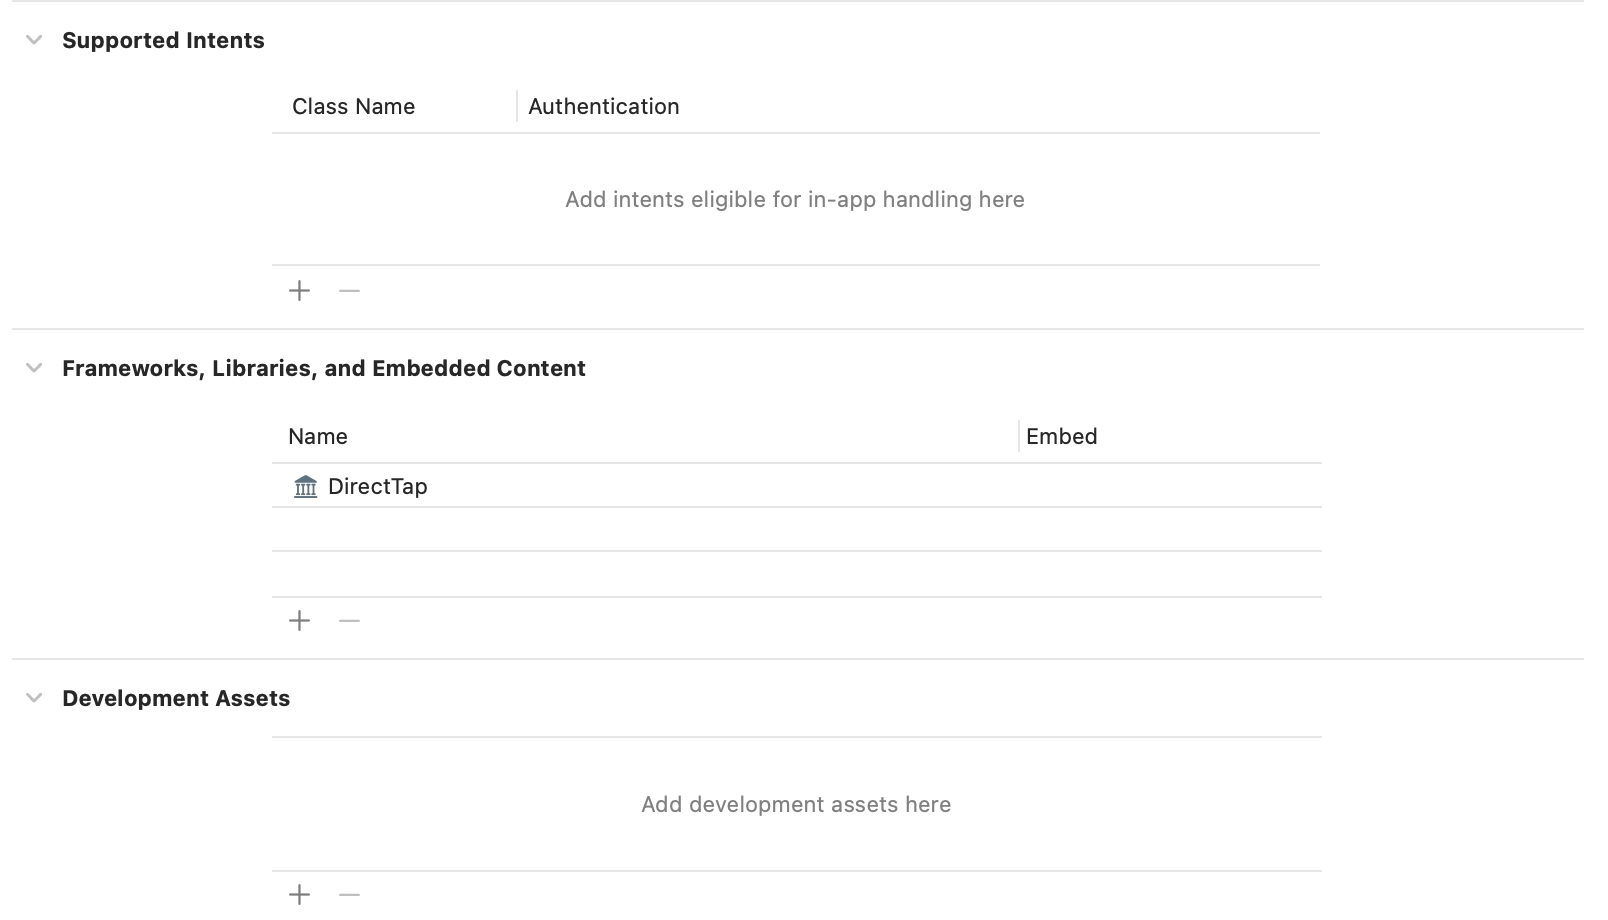
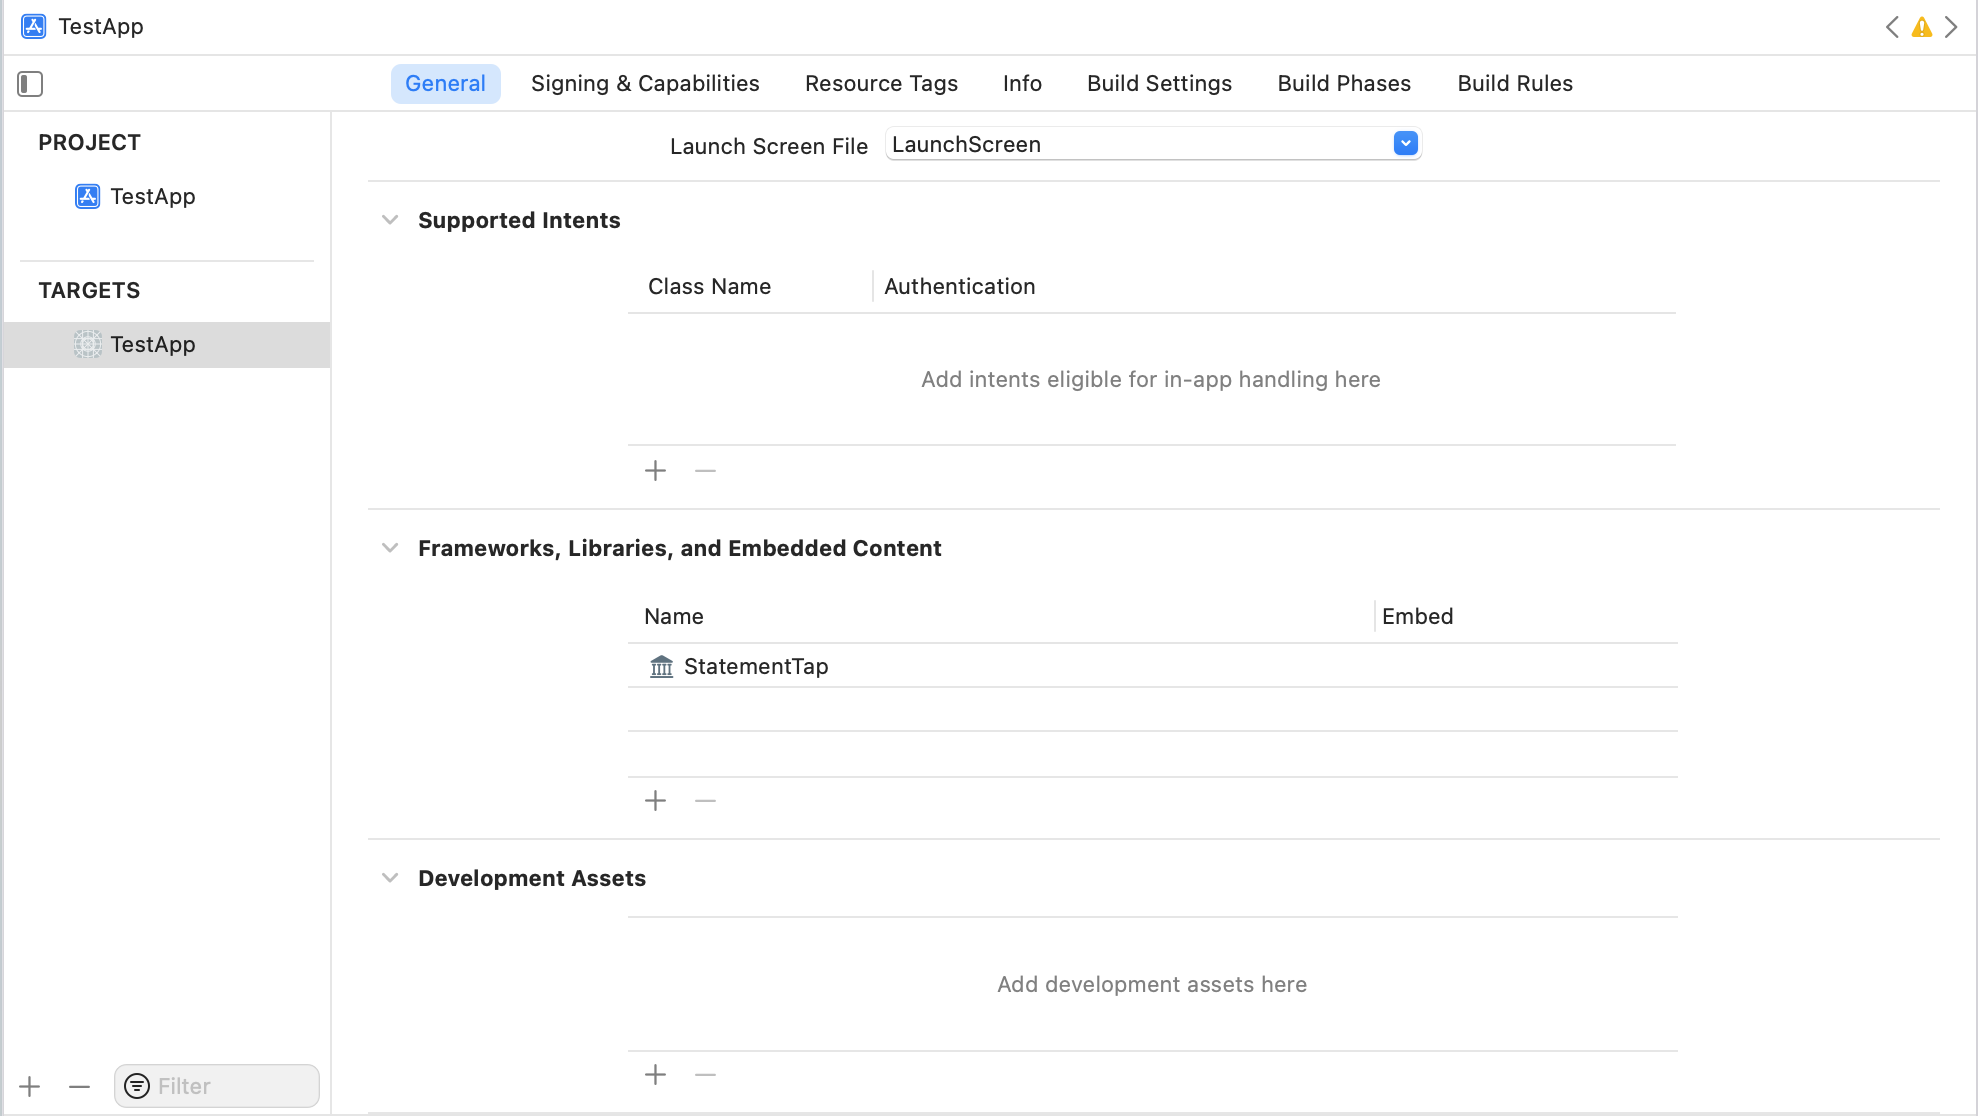
* Updated Integration Document

diff --git a/README.md b/README.md
@@ -29,9 +29,9 @@ The next set of instructions assume that **Flutter** and **Dart** plugins are al
 
 **To run on iOS Device**:
 1. Open Xcode and import the project
-2. Download Direct Tap Framework via Swift Package Manager. To integrate, click your project > **Package Dependencies**, then the '+' button <br/><br/>![](images/project.png)
+2. Download  Statement Tap Framework via Swift Package Manager. To integrate, click your project > **Package Dependencies**, then the '+' button <br/><br/>![](images/project.png)
 3. On the search bar, enter the URL: **https://github.com/brankas/core-sdk-ios**. Wait for the repository to be loaded then click **Add Package** <br/><br/>![](images/repo.png)
-4. Check **DirectTap** then click on **Add Package** <br/><br/>![](images/check_direct.png)
+4. Check **StatementTap** then click on **Add Package** <br/><br/>![](images/check_statement.png)
 5.  Check if package has already been added as a dependency <br/><br/>![](images/check_package.png)
 6. Go to **Frameworks, Libraries and Embedded Content** and check if the selected framework has been added <br/><br/>![](images/framework.png)
 7. The application can now be run on an iOS Device or Simulator
